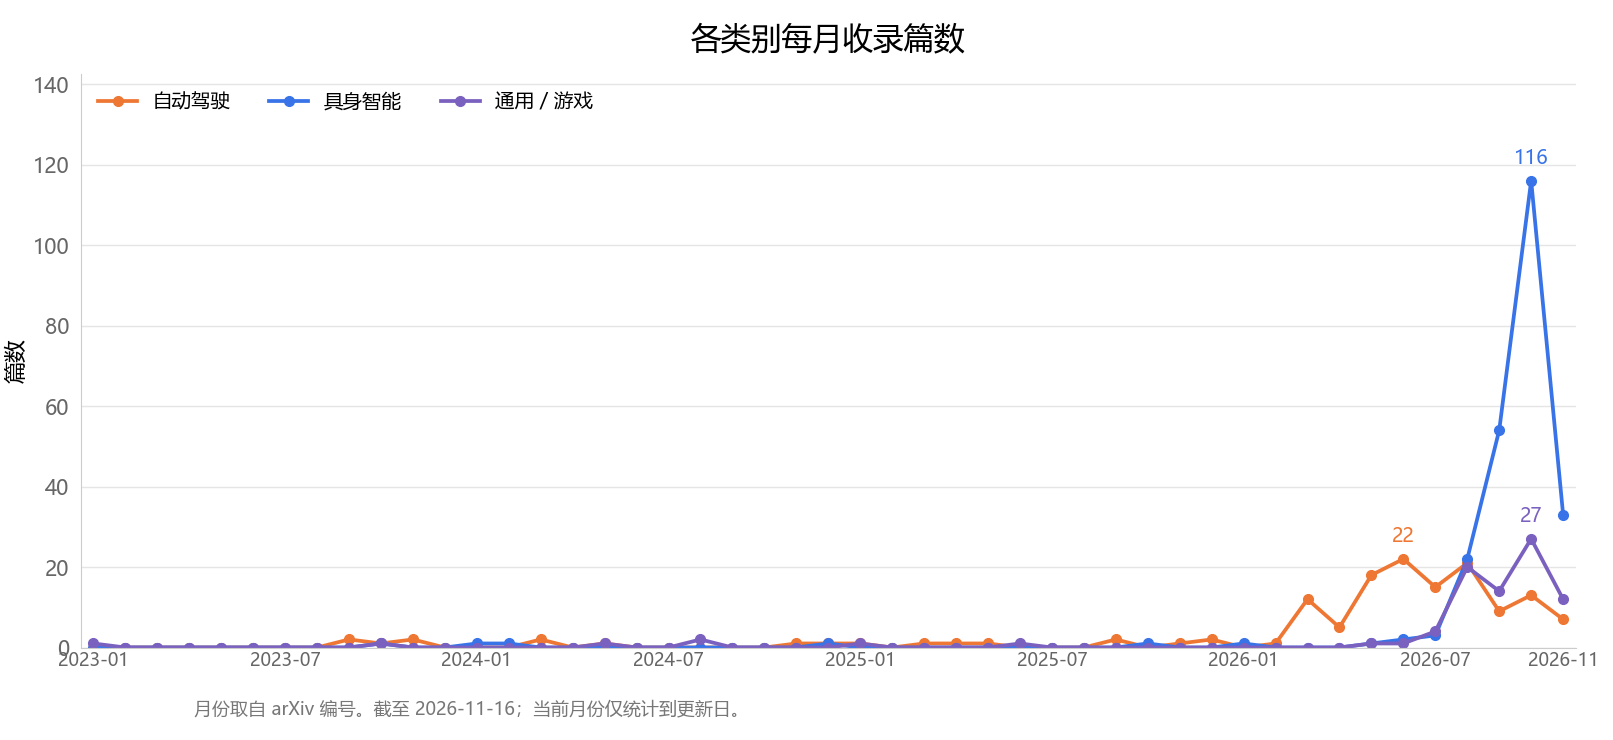
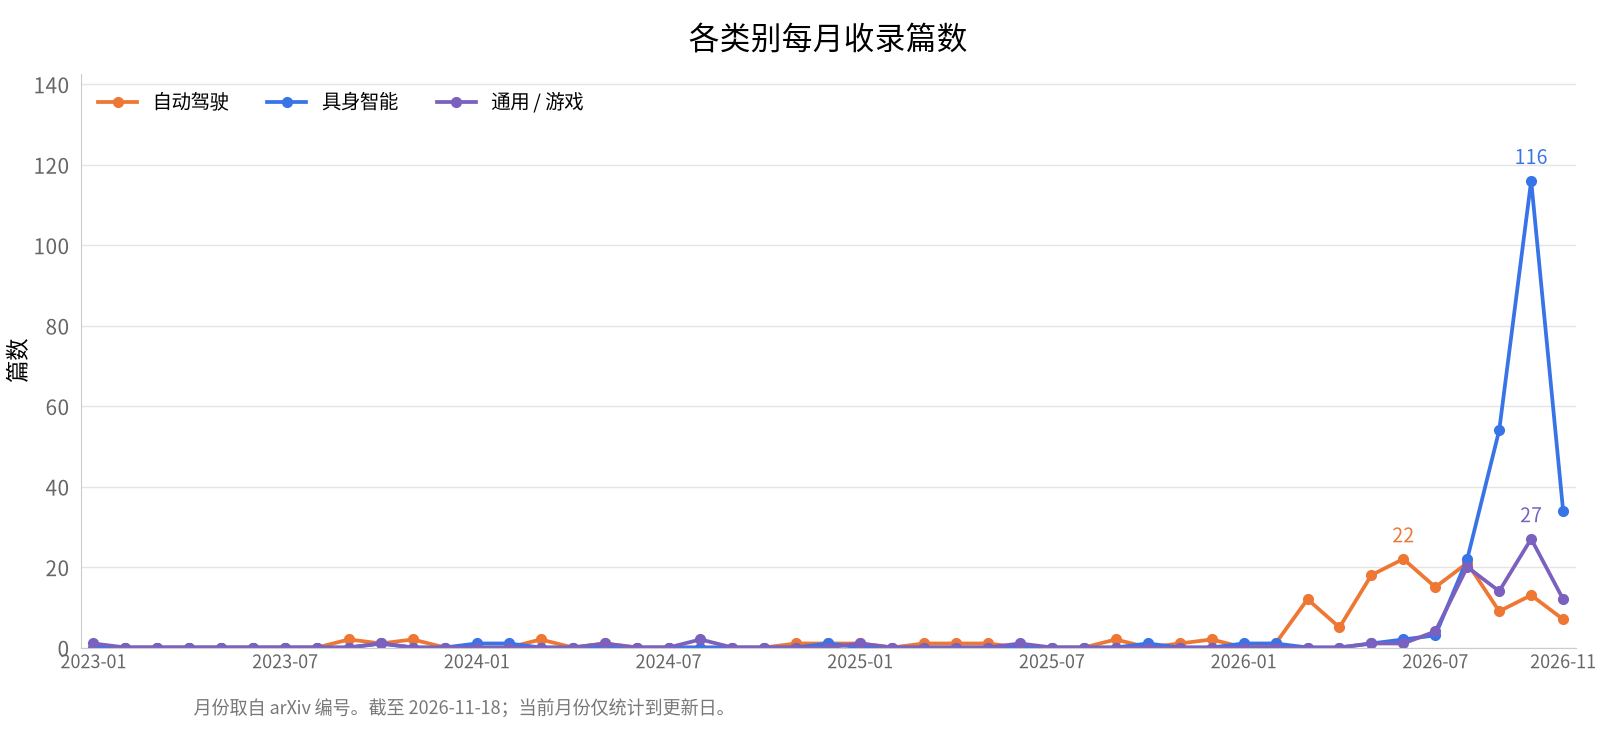
[update] rb-vla, lasr

diff --git a/README.en.md b/README.en.md
@@ -10,7 +10,7 @@
 
 World models learn dynamic representations of their environments to predict and imagine the future. Interactive world models further support action-conditioned generation and control, providing data engines, neural simulators, and a foundation for policy learning in autonomous driving and embodied AI. This repository collects representative work, organized by application domain and annotated with its interactive capabilities.
 
-📊 **465** papers collected | Last updated: 2026-11-16
+📊 **467** papers collected | Last updated: 2026-11-18
 
 <p align="center">
   <img src="assets/interactive-world-model.en.svg" alt="Interactive world models: closed-loop interaction between agents and world models" width="760">
@@ -32,7 +32,7 @@ World models learn dynamic representations of their environments to predict and 
 ## Contents
 
 - [Autonomous Driving](#autonomous-driving) (142)
-- [Embodied AI](#embodied-ai) (237)
+- [Embodied AI](#embodied-ai) (239)
 - [General / Game](#general--game) (86)
 
 ## Autonomous Driving
@@ -207,6 +207,7 @@ World models learn dynamic representations of their environments to predict and 
 | **Continual WM Bench**: Benchmarking World Models for Continual Learning on Compositional Tasks | arXiv (2026) | Oxford | — | [Paper](https://arxiv.org/abs/2609.22055) | A continual-learning benchmark for manipulation world models. New tasks at the end of the curriculum recombine action and perceptual factors from previously seen tasks, separating fast learning from the ability to reuse learned dynamics. Modular dynamics better balance reuse and forgetting than conventional continual-learning methods, but no method fully solves the problem. |
 | **HIJP**: Beyond Action Prediction: Learning Search-Free Planning in Latent Space | arXiv (2026) | Nanjing University of Science and Technology / University of Oxford / Singapore University of Technology and Design / Adelaide University | 🎮 🔁 | [Paper](https://arxiv.org/abs/2610.23615) | A goal-conditioned inverse model alternates with an action-conditioned latent predictor to build multi-step plans without test-time action search. Across four visual-control tasks, 16 difficulty combinations, and 50 episodes each, overall success is 86.8%, 4.9 points above the strongest baseline. Removing transition consistency lowers average success on 12 combinations from 82.5% to 76.0%. Evaluation is simulation-only, with a fixed planning horizon. |
 | **Beyond Ensemble Disagreement: Predictive STL Monitoring of RL Locomotion under Distribution Shift** | arXiv (2026) | Sindh Madressatul Islam University / Shah Abdul Latif University / University of Camerino / Institute of Biophysics CNR / University of Mirpurkhas | 🎮 🔁 | [Paper](https://arxiv.org/abs/2611.02218) \| [Code](https://github.com/lakhanqurban/stl-monitor-rl) | Evaluates STL safety monitoring using action-conditioned world models and in-model feedback rollouts of frozen PPO policies; ensemble disagreement does not reliably predict errors or violations, while on HalfCheetah current-state AUROC is within 0.03 of predicted robustness. Evidence is limited to two simulated environments, without validated monitor-intervention benefits or safety guarantees. |
+| **LASR**: Beyond Prediction Gain: LASR as a Metric for Action-Grounded Latents in World Models | arXiv (2026) | Tsinghua University / Beijing Jiaotong University | — | [Paper](https://arxiv.org/abs/2611.17775) | Uses held-out data and non-action controls on ALOHA data and five ManiSkill3 tasks to test whether five frozen latent-action representations add predictive information about recorded actions and physical state changes. Residual adaptation lowers the 15-step prediction LPIPS point estimate for the frozen DiLA world model from 0.339 to 0.324. Paired 95% confidence intervals for the LASR differences from the original DiLA representation include zero, and the experiments primarily support offline representation diagnostics. |
 | **HF-WM**: Beyond Successful Robot Demonstrations: Learning from Human Interactions and Modeling Failure Dynamics | arXiv (2026) | Zhejiang University / Beijing Zhongguancun Academy / University of Science and Technology of China / Eastern Institute of Technology / Institute of Automation, Chinese Academy of Sciences | 🎮 🔁 | [Paper](https://arxiv.org/abs/2610.13522) \| [Project](https://peiyantu.github.io/HF-WM/) | Stabilized pointflow couples human and robot interaction learning, while action perturbations and GRPO train failure dynamics; success-rate estimates have a mean absolute error of 2.41 percentage points across six policies with 90 matched hardware sessions each, but scoring relies on VLMs and closed-loop gains are validated only on LIBERO-90. |
 | **Dual-WM**: Beyond a Single Latent Space: A Dual-Latent World Model for Long-Horizon Planning | arXiv (2026) | Nanjing University / Shanghai Jiao Tong University / Shenzhen Institutes of Advanced Technology / Shenzhen University of Advanced Technology | 🎮 🔁 ⏳ | [Paper](https://arxiv.org/abs/2609.37644) \| [Code](https://github.com/DeLin1001/Dual-WM-Official) | Uses low-level latent space for fine-grained action transitions and learned macro-actions at the high level for long-horizon subgoals. Across five goal-conditioned visual-control tasks, average success rises from 75.9% to 84.4% for a 50-step goal offset and from 61.4% to 69.5% for a 100-step offset. At 100 steps, it exceeds LeWM by 30.8 percentage points. |
 | **CF-JEPA**: Improving Robustness of JEPA World Models via Controllability Factorization | arXiv (2026) | Georgia Institute of Technology / Georgia Tech Research Institute | 🎮 🔁 | [Paper](https://arxiv.org/abs/2610.00727) | Splits JEPA's latent space into controllable and uncontrollable components and plans only with the controllable component. Under two visual distractors, LeWM collapses on all tasks; Reacher success is 0.10 for SMWM and 0.48 for CF-JEPA. With additional distractors, SMWM's PushT and TwoRoom success drops from 0.86 and 0.98 to 0.27 and 0.46, while CF-JEPA maintains 0.57 and 0.82. |
@@ -338,6 +339,7 @@ World models learn dynamic representations of their environments to predict and 
 | **QCC-WM**: Linking Macro-State Dynamics and Visual Generation via Quotient Causal Construction | arXiv (2026) | University of Electronic Science and Technology of China / University of Glasgow / Huzhou Maternity & Child Health Care Hospital | 🎮 | [Paper](https://arxiv.org/abs/2611.12353) | Learns ultrasound macro-state dynamics conditioned on six-dimensional probe pose changes, using motion transport and spatial error correction to generate future observations; four-step US-VLA ROI-MSE falls from 0.02046 for Direct to 0.01861. Physical-interaction evidence is limited to offline prediction, with 16 steps spanning only about 0.533 seconds; internal generative readback is not an environment feedback loop, and robotic navigation or clinical benefit is unvalidated. |
 | **RIWANav**: Recursive World-Action Models with Self-Improvement for Urban Navigation | arXiv (2026) | Shanghai Jiao Tong University / Beihang University / Hong Kong University of Science and Technology / Tsinghua University / University of Texas at Austin / IGDL | 🎮 🔁 ⏳ | [Paper](https://arxiv.org/abs/2610.08640) | Alternately updates a navigation policy and a Cosmos world model. On unseen UrbanNav scenes, success rises from 80.31% with a frozen world model to 88.25%, and SPL rises from 76.09% to 82.59%. On the same split, NoMaD scores 84.80% and 79.85%, respectively. |
 | **ReactWorld**: Structuring Interaction Responses for Embodied Video Generation | arXiv (2026) | Huawei Technologies Co., Ltd. / Tongji University / Zhejiang University | — | [Paper](https://arxiv.org/abs/2611.06120) \| [Project](https://metaengine-world.github.io/ReactWorld/) | Predicts participant roles, local response strength, and 2D displacement from an initial image and task instruction, then guides embodied video generation through zero-dynamics-referenced increments and temporal attention; RBench scores rise from 71.94 for a matched Video-FT control to 77.51. Evidence covers short video generation without external action conditioning or policy feedback; 2D responses and automatic annotations limit physical reliability. |
+| **RB-VLA**: Recursive Belief Vision Language Action Models | IROS (2026) | Indian Institute of Technology Madras | 🔁 | [Paper](https://arxiv.org/abs/2602.20659) | Learns an RSSM-style recursive belief to predict latent observations one and five steps ahead and drive a closed-loop diffusion policy. In simulated occluded multi-stage pick-and-place, success is 77.5% versus 25.0% for π₀. After fine-tuning on 100 real trajectories, success is 68.0% across 25 trials on one UR5. The predictor receives executed-action history through the belief state. |
 | **ReCAP**: Remembering What Matters for Long-Horizon Robotic World Models | arXiv (2026) | — | 🎮 ⏳ | [Paper](https://arxiv.org/abs/2610.14583) \| [Project](https://alexander-wu.github.io/recap-project-page/) | Keeps autoregressive action-conditioned world models frozen, retaining the initial scene anchor and recent complete visual–action blocks while removing stale generated history. On 200 paired BridgeV2 predictions, LPIPS is 63.3% lower than Full Context. Closed-loop control benefits are untested, and the component ablation finds no significant LPIPS AUC gain from the anchor over Recent Only. |
 | **ReWAM**: Rethinking Representations for World-Action Modeling | arXiv (2026) | Huazhong University of Science and Technology / Horizon Robotics / D-Robotics | 🎮 🔁 | [Paper](https://arxiv.org/abs/2609.38163) | Compares representations within the same world-action model: without generative-video pretraining, raw DINO features outperform Video-VAE latents on RoboTwin 2.0 despite worse pixel reconstruction. ReWAM compresses DINO features into compact world states, with only action-loss gradients entering the bottleneck. RoboTwin 2.0 success is 93.6%. With approximately 600 hours of embodied pretraining on RoboDojo, the average score is 12.29 and success is 8.28%. |
 | **ViGAR**: Rethinking World-Action Model for Compositional and In-Context Robotic Manipulation | arXiv (2026) | Peking University / AgiBot / CocoMatrix | 🎮 🔁 ⏳ | [Paper](https://arxiv.org/abs/2610.02368) \| [Project](https://dagroup-pku.github.io/ViGAR) \| [Code](https://github.com/DAGroup-PKU/ViGAR) | First predicts a visual subgoal for the next subtask, then jointly generates future frames and actions conditioned on that subgoal; both components share a pretrained world model. On RoboTwin, success is 82.00% on Clean and 67.02% on Random, averaging 74.51%, compared with 4D-WAM's 61.65% average. Removing visual subgoals from the same Cosmos3-Nano backbone yields 22.46% on Random. Real-robot evaluation uses five long-horizon compositional tasks on AgiBot A2. |

diff --git a/README.md b/README.md
@@ -10,7 +10,7 @@
 
 世界模型 (World Model) 通过学习环境的动态表征，实现对未来的预测与想象； 可交互世界模型进一步支持以动作 (action) 为条件的生成与控制， 为自动驾驶和具身智能提供数据引擎、神经仿真器与策略学习基础。 本仓库收录并整理该方向的代表性工作，按应用场景分类， 并标注每篇工作的交互能力维度。
 
-📊 共收录 **465** 篇工作 ｜ 最后更新：2026-11-16
+📊 共收录 **467** 篇工作 ｜ 最后更新：2026-11-18
 
 <p align="center">
   <img src="assets/interactive-world-model1.png" alt="交互式世界模型：智能体与世界模型的闭环交互" width="760">
@@ -32,7 +32,7 @@
 ## 目录
 
 - [自动驾驶 Autonomous Driving](#自动驾驶-autonomous-driving)（142）
-- [具身智能 Embodied AI](#具身智能-embodied-ai)（237）
+- [具身智能 Embodied AI](#具身智能-embodied-ai)（239）
 - [通用 / 游戏 General / Game](#通用--游戏-general--game)（86）
 
 ## 自动驾驶 Autonomous Driving
@@ -207,6 +207,7 @@
 | **Continual WM Bench**: Benchmarking World Models for Continual Learning on Compositional Tasks | arXiv (2026) | Oxford | — | [论文](https://arxiv.org/abs/2609.22055) | 操作世界模型的持续学习基准。课程末尾的新任务由已见任务的动作因素和感知因素重新组合，从而把学得快和会不会复用已学动力学拆开。模块化动力学比常规持续学习方法更平衡复用和遗忘，但没有一种方法把这个问题做完。 |
 | **HIJP**: Beyond Action Prediction: Learning Search-Free Planning in Latent Space | arXiv (2026) | Nanjing University of Science and Technology / University of Oxford / Singapore University of Technology and Design / Adelaide University | 🎮 🔁 | [论文](https://arxiv.org/abs/2610.23615) | 目标条件逆模型与动作条件潜预测交替生成多步计划，测试时不做动作搜索。四项视觉控制、16 个难度组合、各 50 次的总成功率为 86.8%，比最强基线高 4.9 个百分点。去掉转移一致性后，12 个组合的平均成功率从 82.5% 降到 76.0%。只在仿真中验证，规划时程固定。 |
 | **Beyond Ensemble Disagreement: Predictive STL Monitoring of RL Locomotion under Distribution Shift** | arXiv (2026) | Sindh Madressatul Islam University / Shah Abdul Latif University / University of Camerino / Institute of Biophysics CNR / University of Mirpurkhas | 🎮 🔁 | [论文](https://arxiv.org/abs/2611.02218) \| [代码](https://github.com/lakhanqurban/stl-monitor-rl) | 用动作条件世界模型和冻结 PPO 的预测内反馈滚动评估 STL 安全监测；集成分歧不能可靠预测误差或违规，HalfCheetah 上当前状态基线与预测鲁棒度的 AUROC 相差不足 0.03。证据限于两个模拟环境，未验证监测器干预收益或安全保证。 |
+| **LASR**: Beyond Prediction Gain: LASR as a Metric for Action-Grounded Latents in World Models | arXiv (2026) | 清华大学 / 北京交通大学 | — | [论文](https://arxiv.org/abs/2611.17775) | 在 ALOHA 数据和 ManiSkill3 五项任务上，用留出数据和非动作对照检验五种冻结潜动作表征能否为预测记录动作与物理状态变化提供额外信息。残差适配使冻结 DiLA 世界模型 15 步预测的 LPIPS 点估计从 0.339 降至 0.324。相对原始 DiLA 表征，LASR 差值的配对 95% 置信区间均包含零，实验主要支持离线表征诊断。 |
 | **HF-WM**: Beyond Successful Robot Demonstrations: Learning from Human Interactions and Modeling Failure Dynamics | arXiv (2026) | 浙江大学 / 北京中关村学院 / 中国科学技术大学 / 宁波东方理工大学 / 中科院自动化所 | 🎮 🔁 | [论文](https://arxiv.org/abs/2610.13522) \| [项目](https://peiyantu.github.io/HF-WM/) | 以稳定点流联合学习人类与机器人交互，并用动作扰动及GRPO训练失败动力学；六策略各90个匹配实机会话的成功率估计平均绝对误差为2.41个百分点，但评分依赖VLM，闭环增益仅在LIBERO-90验证。 |
 | **Dual-WM**: Beyond a Single Latent Space: A Dual-Latent World Model for Long-Horizon Planning | arXiv (2026) | 南京大学 / 上海交通大学 / 深圳先进技术研究院 / 深圳理工大学 | 🎮 🔁 ⏳ | [论文](https://arxiv.org/abs/2609.37644) \| [代码](https://github.com/DeLin1001/Dual-WM-Official) | 低层潜空间做细粒度动作转移，高层用学到的宏动作做长程子目标。五个目标条件视觉控制任务上，目标偏移 50 步时平均成功率从 75.9% 到 84.4%，100 步时从 61.4% 到 69.5%。偏移 100 步时相对 LeWM 高 30.8 个百分点。 |
 | **CF-JEPA**: Improving Robustness of JEPA World Models via Controllability Factorization | arXiv (2026) | 佐治亚理工学院 / 佐治亚理工研究院 | 🎮 🔁 | [论文](https://arxiv.org/abs/2610.00727) | 把 JEPA 潜空间拆成可控和不可控两部分，规划只用可控部分。两个视觉干扰下，LeWM 在全部任务上坍缩；Reacher 上 SMWM 成功率 0.10，CF-JEPA 为 0.48。干扰再增加时，SMWM 的 PushT 和 TwoRoom 从 0.86、0.98 掉到 0.27、0.46，CF-JEPA 维持 0.57 和 0.82。 |
@@ -338,6 +339,7 @@
 | **QCC-WM**: Linking Macro-State Dynamics and Visual Generation via Quotient Causal Construction | arXiv (2026) | University of Electronic Science and Technology of China / University of Glasgow / Huzhou Maternity & Child Health Care Hospital | 🎮 | [论文](https://arxiv.org/abs/2611.12353) | 学习六维探头位姿变化条件的超声宏状态动力学，以运动传输和空间误差修正生成未来观测；US-VLA 四步 ROI-MSE 从 Direct 的 0.02046 降至 0.01861。物理交互证据限离线预测，16 步仅约 0.533 秒；生成内部回读不构成环境闭环，未验证机器人导航或临床收益。 |
 | **RIWANav**: Recursive World-Action Models with Self-Improvement for Urban Navigation | arXiv (2026) | 上海交通大学 / 北京航空航天大学 / 香港科技大学 / 清华大学 / 得克萨斯大学奥斯汀分校 / IGDL | 🎮 🔁 ⏳ | [论文](https://arxiv.org/abs/2610.08640) | 导航策略和 Cosmos 世界模型交替更新。UrbanNav 未见场景成功率从冻结世界模型的 80.31% 到 88.25%，SPL 从 76.09% 到 82.59%。同一划分上 NoMaD 为 84.80% 和 79.85%。 |
 | **ReactWorld**: Structuring Interaction Responses for Embodied Video Generation | arXiv (2026) | Huawei Technologies Co., Ltd. / Tongji University / Zhejiang University | — | [论文](https://arxiv.org/abs/2611.06120) \| [项目](https://metaengine-world.github.io/ReactWorld/) | 从初图与任务指令预测参与角色、局部响应强度和二维位移，再以零动态参考增量与时序注意力引导具身视频生成；同数据预算的 Video-FT 对照在 RBench 为 71.94，ReactWorld 为 77.51。仅验证短视频生成，未接入外部动作或策略闭环，二维响应与自动标注仍限制物理可靠性。 |
+| **RB-VLA**: Recursive Belief Vision Language Action Models | IROS (2026) | 印度理工学院马德拉斯分校 | 🔁 | [论文](https://arxiv.org/abs/2602.20659) | 学习 RSSM 式递归信念以预测未来一步和五步的潜观测，并驱动扩散策略闭环执行。仿真遮挡下多阶段抓放成功率为 77.5%，π₀ 为 25.0%。用 100 条真机轨迹微调后，单台 UR5 在 25 次试验中成功率为 68.0%。预测器通过信念接收已执行动作的历史信息。 |
 | **ReCAP**: Remembering What Matters for Long-Horizon Robotic World Models | arXiv (2026) | — | 🎮 ⏳ | [论文](https://arxiv.org/abs/2610.14583) \| [项目](https://alexander-wu.github.io/recap-project-page/) | 冻结自回归动作条件世界模型，保留初始场景锚点和最近完整视觉动作块并移除陈旧生成历史；200 对 BridgeV2 预测中 LPIPS 比 Full Context 低 63.3%。尚未验证闭环控制收益，且组件消融中锚点相对 Recent Only 的 LPIPS AUC 增益不显著。 |
 | **ReWAM**: Rethinking Representations for World-Action Modeling | arXiv (2026) | 华中科技大学 / 地平线 / D-Robotics | 🎮 🔁 | [论文](https://arxiv.org/abs/2609.38163) | 在同一套世界–动作模型里比较表示：没有生成式视频预训练时，原始 DINO 特征在 RoboTwin 2.0 上优于 Video-VAE 潜变量，尽管像素重建更差。ReWAM 把 DINO 特征收成紧凑世界状态，只有动作损失的梯度进入这个瓶颈。RoboTwin 2.0 成功率 93.6%。RoboDojo 上约 600 小时具身预训练，平均分 12.29，成功率 8.28%。 |
 | **ViGAR**: Rethinking World-Action Model for Compositional and In-Context Robotic Manipulation | arXiv (2026) | 北京大学 / AgiBot / CocoMatrix | 🎮 🔁 ⏳ | [论文](https://arxiv.org/abs/2610.02368) \| [项目](https://dagroup-pku.github.io/ViGAR) \| [代码](https://github.com/DAGroup-PKU/ViGAR) | 先预测下一子任务的视觉子目标，再在该子目标条件下同时生成未来画面和动作，两部分共用预训练世界模型。RoboTwin Clean 82.00%、Random 67.02%，平均 74.51%，4D-WAM 平均 61.65%。同一 Cosmos3-Nano 骨干去掉视觉子目标后，Random 为 22.46%。真机是 AgiBot A2 上的五个长程组合任务。 |

diff --git a/curation/2026-11-18.md b/curation/2026-11-18.md
@@ -1,0 +1,17 @@
+# 论文筛选审核记录 — 2026-11-18
+
+## Issue #65 — arXiv 候选论文更新 2026-11-16
+
+审核该 issue 的两篇候选，评论区为空。按 arXiv 编号和标题检查三类数据库后，收录 2 篇，暂缓 0 篇，不收录 0 篇，均归为 `embodied`。采纳日期为 2026-11-18。用户已授权提交和推送此次更新，并在远端提交和 CI 核验通过后将 Issue #65 标记为已完成。提交前已获取远端更新，本地 `main` 与 `origin/main` 均以 `5e7ec0a` 为基线。[原 Issue](https://github.com/Zizizi-hao/Awesome-interactive-world-model-for-Pysical-Intelligence/issues/65)
+
+### 收录
+
+- **RB-VLA（2602.20659）**。当前题名 *Recursive Belief Vision Language Action Models*，2026-02-24 首发，11-13 更新至 v3。机构为印度理工学院马德拉斯分校，arXiv 与作者实验室均确认 IROS 2026 接收。RSSM 式信念从观测、本体感知和已执行动作递归更新，以第 1、5 步潜观测预测和逆动力学目标训练。扩散策略根据更新后的信念执行滚动时域控制，因此标记 `closedloop`。仿真遮挡下，多阶段抓放和堆叠成功率分别为 77.5% 和 80.0%，π₀ 分别为 25.0% 和 42.5%，每任务 40 次。抓放累积组件消融从基础配置的 32.5% 提升到完整模型的 77.5%。使用 100 条真机轨迹微调后，单台 UR5 的 25 次抓放试验成功率为 68.0%，真机实验范围为单任务、单配置。预测头输入为信念和随机潜变量，`action` 所需的外部指定未来动作接口缺少直接证据。长期任务成功率和短步预测支持控制与状态表征，`longhorizon` 所需的连贯长程预测仍缺评估。10–20 Hz 的信念更新缺少独立测量配置，50 Hz 是控制执行频率，`realtime` 留空。可核实的公开资料为论文和作者实验室出版目录。[arXiv 元数据](https://arxiv.org/abs/2602.20659v3) · [原文方法、表 I/III 及真机实验](https://arxiv.org/html/2602.20659v3) · [作者实验室](https://niravatgit.github.io/INSPIRELab/publications.html)
+
+- **LASR（2611.17775）**。完整题名 *Beyond Prediction Gain: LASR as a Metric for Action-Grounded Latents in World Models*，2026-11-13 首发，当前 v1，清华大学与北京交通大学，venue 为 arXiv。固定预测器类型，在留出数据上对比仅当前状态、当前状态加潜变量、当前状态加验证集选出的非动作对照，目标为记录动作和物理状态变化。五种冻结表征共享 49 条 ALOHA 演示的 2,048 个对齐转移，并在 ManiSkill3 五任务的 2,060 个转移上比较。仿真中同一初态的四条动作分支始终留在同一划分。残差适配优于随机、打乱监督和普通 MSE 的适配对照，但相对原始 DiLA 的 GeoLASR 和 WorstLASR 差值，配对 95% 置信区间均含零。冻结 DiLA 预测器的 15 步 LPIPS 点估计从 0.339 降至 0.324。单步仿真重放和既有 UniVLA 轨迹支持诊断，策略受益和因果解释仍缺证据。直接评估并适配已学习的机器人世界模型表征，实证范围支持收录为离线评测工作，`features: {}`。附录说明了配套代码的范围，暂缺可核实的公开项目或代码地址。[arXiv 元数据](https://arxiv.org/abs/2611.17775) · [原文 §3–5 与附录 F–I](https://arxiv.org/html/2611.17775v1)
+
+### 本地验证
+
+- 双语 README 和两张月度统计图已用仓库脚本重新生成。README 与生成函数输出逐文本一致，双语点评已核对方法、数字与局限。两张 PNG 均为 1613 × 740，已目视核对标题、图例和更新日期。
+- 论文由 465 篇增至 467 篇，其中自动驾驶 142 篇、具身智能 239 篇、通用／游戏 86 篇。按 arXiv 编号归档，具身智能 2026 年 2 月由 0 增至 1 篇，11 月由 33 增至 34 篇。新增编号和规范化标题各自唯一，三个分类的既有条目与基线逐条一致。
+- `python3 -m unittest discover -s tests` 的 34 项测试及 `git diff --check` 均通过。
